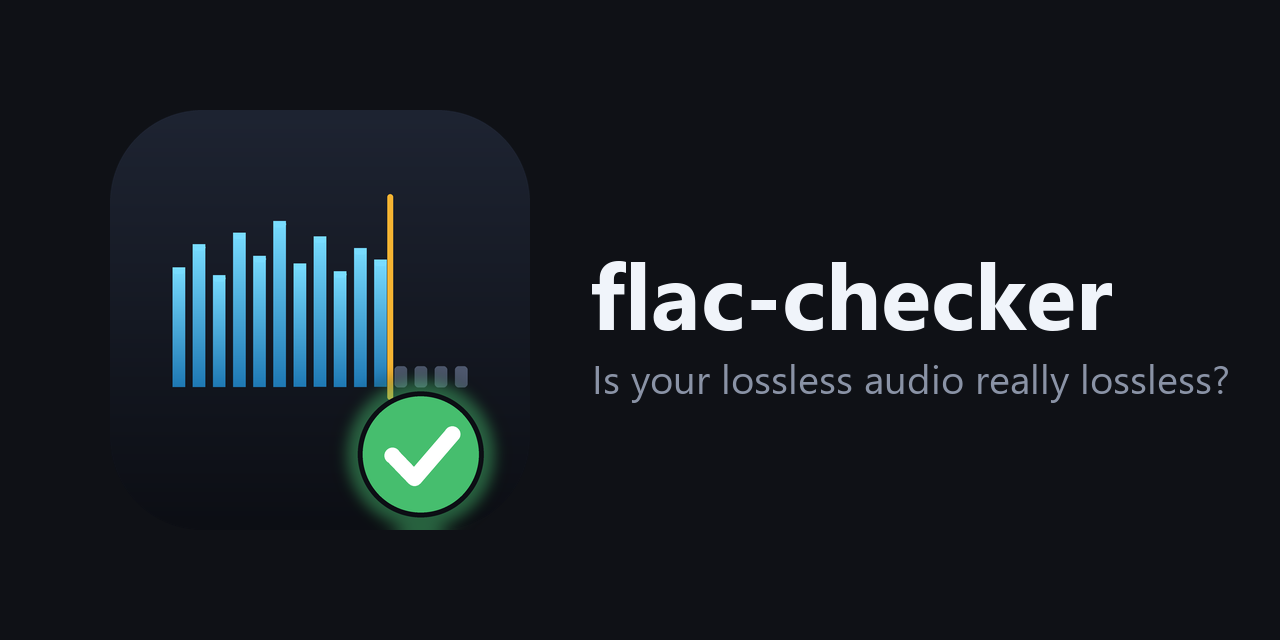
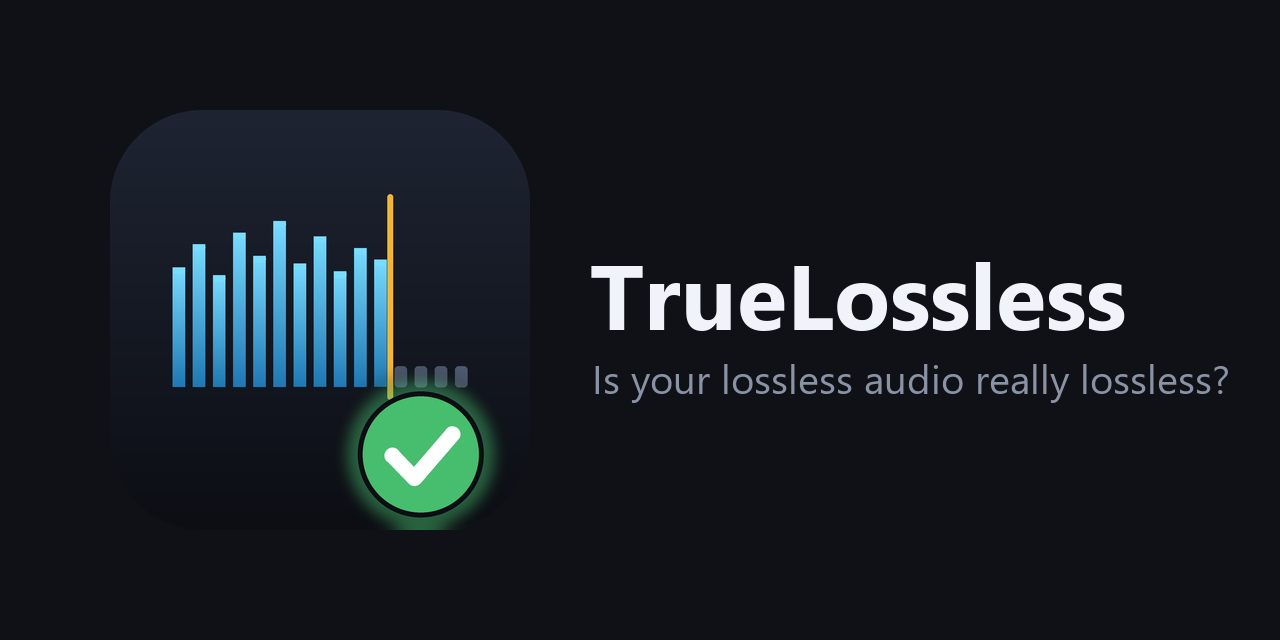
Rename to TrueLossless, add CLI --quality and UPX portable builds

Changed region(s): [[0.4375, 0.4062, 0.875, 0.5312]]

diff --git a/gui/src/main.rs b/gui/src/main.rs
@@ -7,7 +7,7 @@ mod style;
 mod worker;
 
 use eframe::egui::{self, Align, Align2, Color32, CornerRadius, FontId, Layout, Margin, RichText, Sense};
-use flac_checker_core::{csv_line, CheckOptions, FileReport, Md5Status, Status, CSV_HEADER};
+use truelossless_core::{csv_line, CheckOptions, FileReport, Md5Status, Status, CSV_HEADER};
 use model::{
     fmt_duration, fmt_rate, outcome_color, outcome_label, status_color, Counts, Filter, Outcome, Slot,
 };
@@ -32,7 +32,7 @@ fn main() -> eframe::Result {
         ..Default::default()
     };
     eframe::run_native(
-        "FLAC Checker",
+        "TrueLossless",
         options,
         Box::new(move |cc| {
             style::apply(&cc.egui_ctx);
@@ -176,7 +176,7 @@ impl App {
 
     fn export_csv(&mut self) {
         let Some(path) = rfd::FileDialog::new()
-            .set_file_name("flac-checker-report.csv")
+            .set_file_name("truelossless-report.csv")
             .add_filter("CSV", &["csv"])
             .save_file()
         else {
@@ -202,7 +202,7 @@ impl App {
     fn top_bar(&mut self, ui: &mut egui::Ui) {
         let ctx = ui.ctx().clone();
         ui.horizontal(|ui| {
-            ui.label(RichText::new("FLAC Checker").size(18.0).strong());
+            ui.label(RichText::new("TrueLossless").size(18.0).strong());
             ui.add_space(10.0);
 
             let open = egui::Button::new(RichText::new("Open folder").color(BG).strong()).fill(ACCENT);
@@ -213,7 +213,7 @@ impl App {
             }
             if ui.button("Open file").clicked() {
                 if let Some(file) = rfd::FileDialog::new()
-                    .add_filter("Audio", flac_checker_core::scan::AUDIO_EXTENSIONS)
+                    .add_filter("Audio", truelossless_core::scan::AUDIO_EXTENSIONS)
                     .pick_file()
                 {
                     self.start(file, &ctx);
@@ -404,7 +404,7 @@ impl App {
                 ui.add_space(4.0);
                 ui.label(
                     RichText::new(
-                        "Drop a folder here, or pick one. FLAC Checker looks for lossy \
+                        "Drop a folder here, or pick one. TrueLossless looks for lossy \
                          transcodes, upsampled hi-res and padded bit depth.",
                     )
                     .color(TEXT_DIM),

diff --git a/cli/src/main.rs b/cli/src/main.rs
@@ -1,6 +1,6 @@
 use clap::Parser;
-use flac_checker_core::{
-    check_many, csv_line, find_audio_files, CheckOptions, FileReport, Status, CSV_HEADER,
+use truelossless_core::{
+    analyze_quality, check_many, csv_line, find_audio_files, CheckOptions, FileReport, Status, CSV_HEADER,
 };
 use std::path::PathBuf;
 use std::process::ExitCode;
@@ -26,6 +26,10 @@ struct Args {
     /// List every file, including genuine ones (default hides their reasons).
     #[arg(short, long)]
     all: bool,
+
+    /// Also measure levels, loudness and clipping (decodes whole files; slow).
+    #[arg(short, long)]
+    quality: bool,
 
     /// Also write the full results to this CSV file.
     #[arg(long, value_name = "FILE")]
@@ -64,6 +68,9 @@ fn main() -> ExitCode {
                 counts[r.verdict.status as usize] += 1;
                 bad |= matches!(r.verdict.status, Status::Fake | Status::Corrupt);
                 print_report(&name, r);
+                if args.quality {
+                    print_quality(path);
+                }
                 if args.all || r.verdict.status != Status::Genuine {
                     for reason in &r.verdict.reasons {
                         println!("          - {reason}");
@@ -134,6 +141,21 @@ fn print_report(name: &str, r: &FileReport) {
             .as_ref()
             .map_or("-".into(), |a| format!("{:.1}k", a.cutoff.bandwidth_hz / 1000.0)),
     );
+}
+
+fn print_quality(path: &std::path::Path) {
+    match analyze_quality(path) {
+        Ok(q) => println!(
+            "          levels: peak {:.1} dB, true peak {:.1} dBTP, RMS {:.1} dB, DR {:.1} dB, {} LUFS, {} clipped",
+            q.peak_db,
+            q.true_peak_dbtp,
+            q.rms_db,
+            q.dynamic_range_db,
+            q.lufs.map_or("-".into(), |l| format!("{l:.1}")),
+            q.clipped
+        ),
+        Err(e) => println!("          levels: not available ({e})"),
+    }
 }
 
 fn truncate(s: &str, max: usize) -> String {

diff --git a/core/examples/gen_samples.rs b/core/examples/gen_samples.rs
@@ -1,12 +1,12 @@
 //! Generates a folder of synthetic audio files that exercise every verdict.
 //!
-//! cargo run -p flac-checker-core --features testgen --example gen_samples -- <out-dir>
+//! cargo run -p truelossless-core --features testgen --example gen_samples -- <out-dir>
 //!
 //! The audio is band-limited noise, so it is only useful for testing the
 //! checker and its UI, not for listening.
 
-use flac_checker_core::flac::testflac::write_flac;
-use flac_checker_core::spectrum::testutil::{bandlimited_noise, write_wav};
+use truelossless_core::flac::testflac::write_flac;
+use truelossless_core::spectrum::testutil::{bandlimited_noise, write_wav};
 use std::fs;
 use std::path::PathBuf;
 

diff --git a/gui/src/quality_view.rs b/gui/src/quality_view.rs
@@ -7,8 +7,8 @@ use eframe::egui::{
     self, Align2, Color32, ColorImage, CornerRadius, FontId, Pos2, Rect, RichText, Sense, Stroke,
     TextureHandle, TextureOptions, Vec2,
 };
-use flac_checker_core::quality::SPEC_DB_MIN;
-use flac_checker_core::{analyze_quality, FileReport, Quality};
+use truelossless_core::quality::SPEC_DB_MIN;
+use truelossless_core::{analyze_quality, FileReport, Quality};
 use std::collections::HashMap;
 use std::path::{Path, PathBuf};
 use std::sync::mpsc::{channel, Receiver, Sender};

diff --git a/assets/make_icon.py b/assets/make_icon.py
@@ -69,6 +69,6 @@ try:
     f1 = ImageFont.truetype("segoeuib.ttf", 92); f2 = ImageFont.truetype("segoeui.ttf", 40)
 except OSError:
     f1 = f2 = ImageFont.load_default()
-sd.text((590, 230), "flac-checker", font=f1, fill=(240, 244, 250, 255))
+sd.text((590, 230), "TrueLossless", font=f1, fill=(240, 244, 250, 255))
 sd.text((592, 350), "Is your lossless audio really lossless?", font=f2, fill=(138, 147, 166, 255))
 sp.convert("RGB").save(os.path.join(here, "social-preview.png"))

diff --git a/gui/src/worker.rs b/gui/src/worker.rs
@@ -1,7 +1,7 @@
 //! Background scan: checks files in parallel and streams results to the UI.
 
 use eframe::egui;
-use flac_checker_core::{check_file, find_audio_files, CheckOptions, FileReport};
+use truelossless_core::{check_file, find_audio_files, CheckOptions, FileReport};
 use rayon::prelude::*;
 use std::path::PathBuf;
 use std::sync::atomic::{AtomicBool, Ordering};

diff --git a/gui/src/plot.rs b/gui/src/plot.rs
@@ -2,7 +2,7 @@
 
 use crate::style::{alpha, ACCENT, BG, BORDER, TEXT_DIM};
 use eframe::egui::{self, Align2, Color32, CornerRadius, FontId, Pos2, Rect, Sense, Stroke, Vec2};
-use flac_checker_core::{Cutoff, Spectrum};
+use truelossless_core::{Cutoff, Spectrum};
 
 const DB_MIN: f32 = -120.0;
 const DB_MAX: f32 = 0.0;

diff --git a/gui/src/model.rs b/gui/src/model.rs
@@ -1,5 +1,5 @@
 use eframe::egui::Color32;
-use flac_checker_core::{FileReport, Status};
+use truelossless_core::{FileReport, Status};
 use std::path::PathBuf;
 
 /// One row in the file list. `result` is `None` until the file is checked.

diff --git a/README.md b/README.md
@@ -1,6 +1,6 @@
-<p align="center"><img src="assets/icon.png" width="128" alt="flac-checker icon"></p>
+<p align="center"><img src="assets/icon.png" width="128" alt="TrueLossless icon"></p>
 
-# flac-checker
+# TrueLossless
 
 [![CI](https://github.com/0n4sh0/truelossless/actions/workflows/ci.yml/badge.svg)](https://github.com/0n4sh0/truelossless/actions/workflows/ci.yml)
 
@@ -16,7 +16,7 @@ same Rust library. No ffmpeg or other runtime dependency is needed.
 
 A file named `song.flac` can still be an MP3 that someone re-encoded. Lossy
 encoders remove content above a certain frequency, and that gap stays visible
-after the file is converted to a lossless format. flac-checker decodes the audio,
+after the file is converted to a lossless format. TrueLossless decodes the audio,
 measures where the content really ends, and compares that with what the file
 claims to be.
 
@@ -27,6 +27,12 @@ claims to be.
 - Content-based detection: the container comes from the file's bytes, not its
   extension.
 - Spectrum plot (average of four 5-second excerpts) with the detected band limit.
+- Audio quality analysis: peak, true peak, RMS, dynamic range, integrated
+  loudness (LUFS), clipping count, bitrate and per-channel stats.
+- Spectrogram (time vs. frequency) for the mix and for each channel.
+- Audio quality analysis: peak, true peak, RMS, dynamic range, integrated
+  loudness (LUFS), clipping count, bitrate and per-channel stats.
+- Spectrogram (time vs. frequency) for the mix and for each channel.
 - Parallel analysis on all CPU cores.
 - Optional FLAC MD5 verification of the decoded audio.
 - CSV export from the CLI and the GUI.
@@ -64,15 +70,27 @@ holds both programs.
 
 | Platform | Archive |
 |---|---|
-| Windows (x64) | `flac-checker-<version>-windows-x64.zip` |
-| Linux (x64) | `flac-checker-<version>-linux-x64.tar.gz` |
-| macOS (Apple silicon) | `flac-checker-<version>-macos-arm64.tar.gz` |
-| macOS (Intel) | `flac-checker-<version>-macos-x64.tar.gz` |
+| Windows (x64) | `truelossless-<version>-windows-x64.zip` |
+| Linux (x64) | `truelossless-<version>-linux-x64.tar.gz` |
+| macOS (Apple silicon) | `truelossless-<version>-macos-arm64.tar.gz` |
+| macOS (Intel) | `truelossless-<version>-macos-x64.tar.gz` |
+
+Each platform also has a `-portable` archive (Windows and Linux) with the same
+programs compressed with [UPX](https://upx.github.io/). It is a smaller download
+and starts a little slower. Some antivirus programs flag UPX-packed files, so use
+the normal archive if that is a problem for you. macOS has no portable build,
+because UPX breaks macOS code signing.
+
+Each platform also has a `-portable` archive (Windows and Linux) with the same
+programs compressed with [UPX](https://upx.github.io/). It is a smaller download
+and starts a little slower. Some antivirus programs flag UPX-packed files, so use
+the normal archive if that is a problem for you. macOS has no portable build,
+because UPX breaks macOS code signing.
 
 Verify downloads with `SHA256SUMS.txt` from the same release.
 
 The binaries are not code-signed. On macOS, run
-`xattr -d com.apple.quarantine flac-checker*` once. On Windows, SmartScreen may
+`xattr -d com.apple.quarantine truelossless*` once. On Windows, SmartScreen may
 ask for confirmation.
 
 Or build from source (Rust 1.94 or newer):
@@ -90,11 +108,13 @@ OpenGL at run time.
 ### Command line
 
 ```
-flac-checker path/to/music
-flac-checker path/to/music --verify      # also verify FLAC MD5 (slower)
-flac-checker path/to/music --probe-only  # headers only (fast, no spectrum)
-flac-checker path/to/music --all         # show reasons for genuine files too
-flac-checker path/to/music --csv out.csv # write a CSV report
+truelossless path/to/music
+truelossless path/to/music --verify      # also verify FLAC MD5 (slower)
+truelossless path/to/music --probe-only  # headers only (fast, no spectrum)
+truelossless path/to/music --all         # show reasons for genuine files too
+truelossless path/to/music --quality     # also levels, LUFS, clipping (slower)
+truelossless path/to/music --quality     # also levels, LUFS, clipping (slower)
+truelossless path/to/music --csv out.csv # write a CSV report
 ```
 
 Exit codes: `0` normal, `1` no audio files found, `2` at least one file is
@@ -102,11 +122,14 @@ fake, corrupt or unreadable. This makes it usable in scripts.
 
 ### Desktop app
 
-Run `flac-checker-gui`, then pick **Open folder** or drop a folder or file onto
-the window. You can also pass a path: `flac-checker-gui path/to/music`.
+Run `truelossless-gui`, then pick **Open folder** or drop a folder or file onto
+the window. You can also pass a path: `truelossless-gui path/to/music`.
 
 - Left: the file list with a status chip, sample rate and bit depth.
-- Right: the verdict with its reasons, key figures, and the spectrum plot.
+- Right: the verdict with its reasons, key figures, the average spectrum, an
+  **Audio quality analysis** card and a **spectrogram** with Mix / per-channel tabs.
+  The quality figures are measured when you select a file (a full decode, so
+  it takes about a second per song).
 - Top bar: filter by status, enable MD5 verification, rescan, **Export CSV**.
 
 ### CSV
@@ -121,15 +144,15 @@ size_bytes, content_ends_khz, edge_db, md5`. Fields that start with `=`, `+`,
 ```
 assets/ app icon (icon.png, icon.ico), GitHub social preview, make_icon.py
 core/  analysis library: probe, decode, spectrum, cutoff, verdict, csv
-cli/   flac-checker command-line tool
-gui/   flac-checker-gui desktop app (egui)
+cli/   truelossless command-line tool
+gui/   truelossless-gui desktop app (egui)
 ```
 
 Generate demo files that trigger every verdict (synthetic noise, for testing
 only):
 
 ```
-cargo run -p flac-checker-core --features testgen --example gen_samples -- samples
+cargo run -p truelossless-core --features testgen --example gen_samples -- samples
 ```
 
 Run the tests with `cargo test --workspace`.
@@ -151,5 +174,7 @@ Run the tests with `cargo test --workspace`.
 - Thresholds are tuned on synthetic signals only. Real-world tuning is pending.
 - ALAC decoding is unverified against real files, because no encoder was
   available for the tests.
-- Mono-as-stereo, clipping and dynamic-range checks are not implemented.
+- Dynamic range is peak minus RMS (crest factor), not the DR-meter (TT DR) value.
+  Loudness is BS.1770 integrated LUFS with equal weight on every channel.
+- Mono-as-stereo detection is not implemented.
 - No Linux or Windows ARM builds yet.
